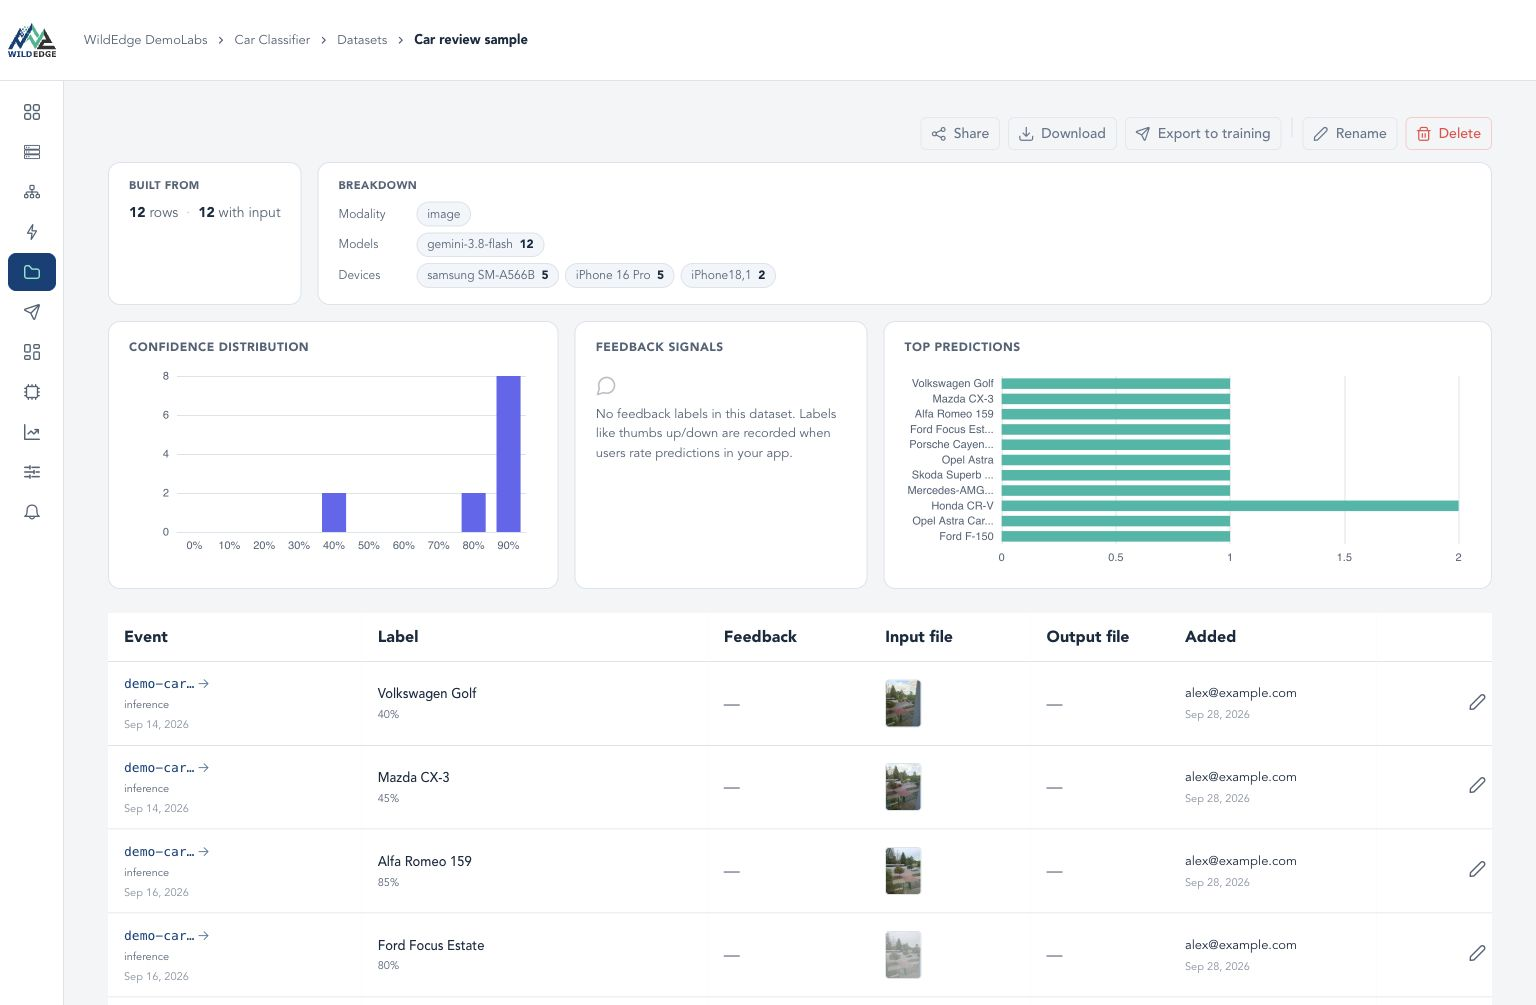
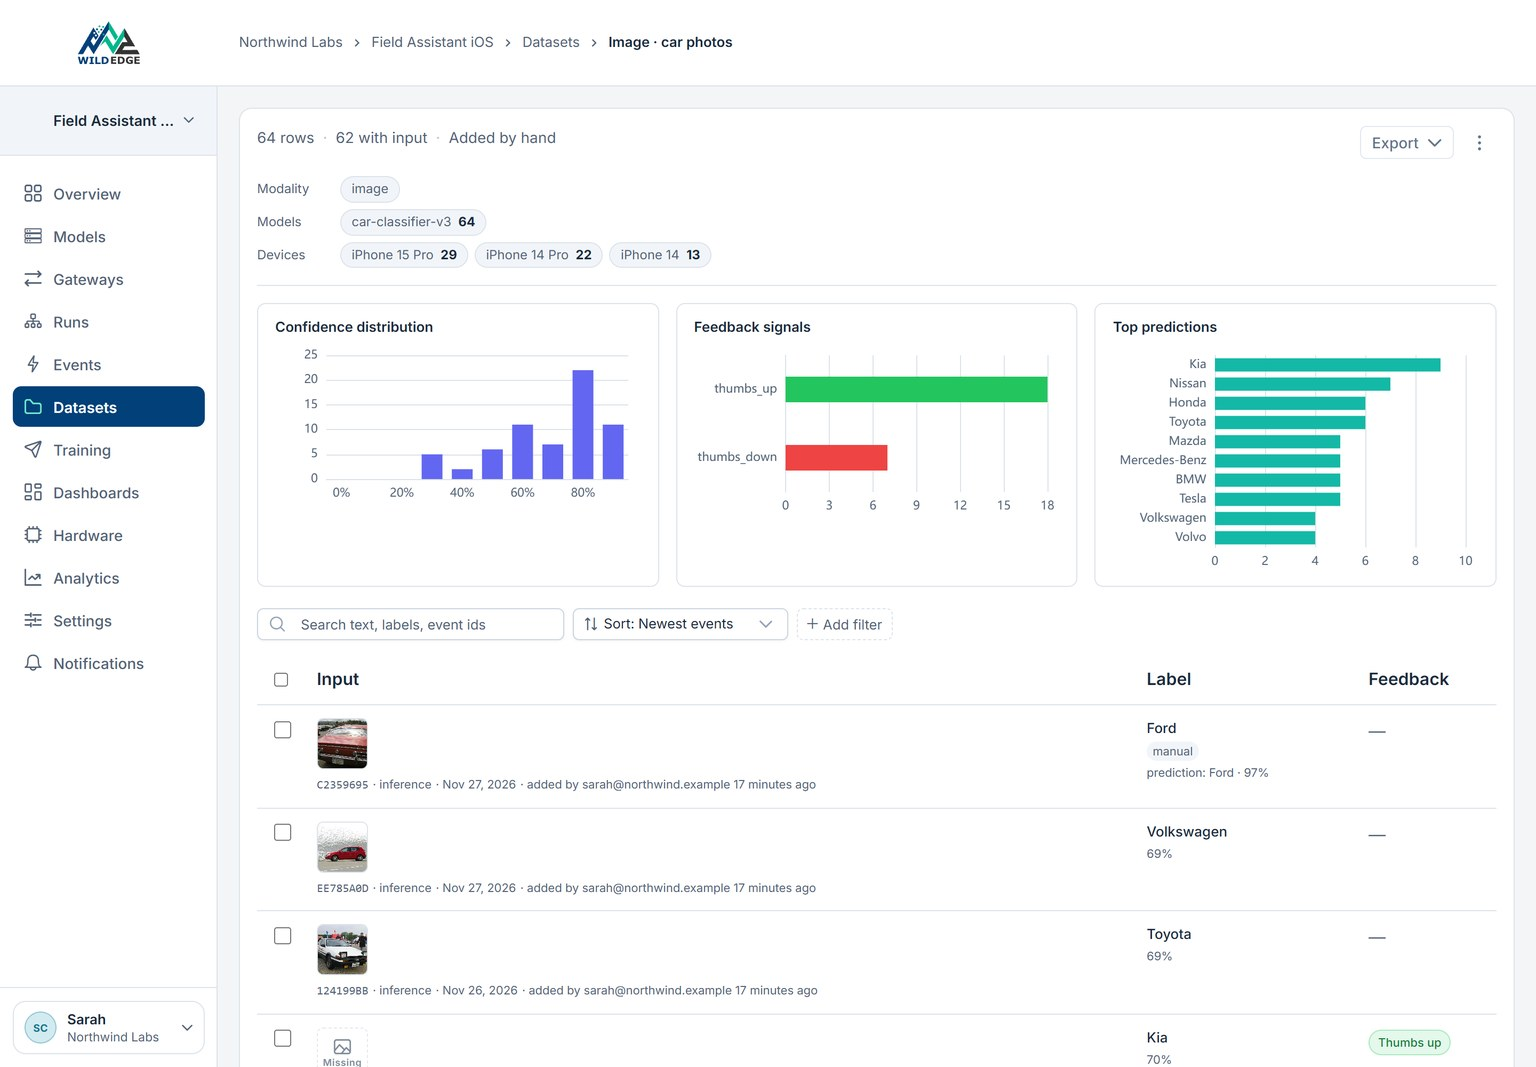
Describe datasets for every model output, with new screenshots (#24)

diff --git a/datasets-and-training/datasets.md b/datasets-and-training/datasets.md
@@ -1,41 +1,107 @@
 ---
 title: Datasets
-description: Review inference examples, correct dataset labels, and prepare data for training.
+description: Collect production inferences with their inputs and outputs, review and label them one at a time or in bulk, and export them for evaluation or training. Works for images, audio, video, documents, text, chat and sensor data.
 ---
 
 # Datasets <a class="we-demo-button" href="https://wildedge.dev/demo/wildedge-demolabs/car-classifier/datasets/car-review-sample?hours=168" aria-label="Open Car review sample in the demo">See Demo</a>
 
-A dataset collects inference events you want to review or use for training. Start with a single event or a filtered batch from [Capture](/datasets-and-training/capture#add-captured-events-to-a-dataset).
+Monitoring tells you that a model is wrong more often than it should be. A dataset shows you the cases where it was wrong.
+
+A dataset is a list of real inferences from your app. Each item holds the input your app gave the model (a photo, a recording, a document, a prompt), what the model answered, and any feedback the user left. You choose which inferences go in, for example every low-confidence prediction from last week, or every answer a user rated thumbs down.
+
+Use a dataset to:
+
+- **See why a model fails.** Look at the inputs behind low confidence or bad feedback, instead of guessing from a chart.
+- **Build an evaluation set.** Correct the wrong answers, then test the next model version on the inputs your users actually send.
+- **Collect training data.** Export the labelled items to retrain or fine-tune the model.
+
+Items keep their own copy of the event, so a dataset stays complete after the original events expire.
 
 <figure class="workflow-shot">
-  <a href="/images/workflows/dataset-detail.jpg"><img src="/images/workflows/dataset-detail.jpg" alt="The full Car review sample view shows dataset actions, coverage, charts, and the first four rows." width="1536" height="1005"><span class="workflow-shot-open">Open full-size screenshot</span></a>
-  <figcaption>Start with coverage and confidence, then review the original events and input images in the table below.</figcaption>
+  <a href="/images/workflows/dataset-detail.jpg"><img src="/images/workflows/dataset-detail.jpg" alt="A car photo dataset shows its row counts, modality, model and device breakdown, three analysis charts and the item table with image thumbnails." width="1536" height="1067"><span class="workflow-shot-open">Open full-size screenshot</span></a>
 </figure>
 
-## Inspect dataset coverage
+## What a dataset can hold
 
-- **Built from and Breakdown** show the row count, attachment coverage, and the input modalities, models, and devices represented.
-- **Confidence distribution and Top predictions** show where the model was uncertain and which classes it predicted most often. In your project, select a bar to filter the rows.
-- **Feedback signals** shows ratings your app recorded, such as thumbs up or thumbs down.
+A dataset accepts any inference event. Each item shows the files and text your app sent with it:
 
-## Review individual rows
+| Content | How it appears |
+| --- | --- |
+| **Images** | Thumbnail in the table, full view in the item panel. Detection boxes can be shown over the image. |
+| **Audio** | Player in the table and the item panel. |
+| **Video** | Player in the table and the item panel. |
+| **PDF** | Inline document preview. |
+| **Text and JSON files** | Inline preview, for prompts, completions, sensor windows or structured outputs. |
+| **Chat** | The last user message in the table and the full conversation in the item panel. |
+| **Input and output summaries** | Short text your app sent instead of a file. These work without attachment capture. |
 
-Open the event link to see the original inference, or click the input thumbnail to inspect the captured image. The row also shows the predicted label, confidence, and any recorded feedback or output file.
+An item can have several input and output files, for example a photo with a question, or a voice command with its transcript. Step through them with the arrows on the preview.
 
 <figure class="workflow-shot">
-  <a href="/images/workflows/dataset-rows.jpg"><img src="/images/workflows/dataset-rows.jpg" alt="Dataset rows with links to inference events, confidence scores, image thumbnails, and edit controls." width="1145" height="420" loading="lazy"><span class="workflow-shot-open">Open full-size screenshot</span></a>
-  <figcaption>Compare each prediction with its captured input before changing a label.</figcaption>
+  <a href="/images/workflows/dataset-modalities.jpg"><img src="/images/workflows/dataset-modalities.jpg" alt="Four dataset items: a car photo with a spoken question and its answer, an invoice PDF with the extracted fields, an accelerometer window and a support chat." width="1536" height="1841" loading="lazy"><span class="workflow-shot-open">Open full-size screenshot</span></a>
 </figure>
 
-### Correct a label
+Files need [attachment capture](/datasets-and-training/capture#capture-content-in-your-app). Without it, items show only the event and its summaries.
 
-In your project, click the pencil icon on the row, enter the corrected **Forced Label**, and select **Save**. The override becomes the effective label for this row and is used by training export. The original prediction remains visible in the editor. Use **Clear forced label** to remove an override.
+## Create a dataset
+
+There are three ways to fill a dataset:
+
+- **From Events.** Filter the Event Explorer and select **Add all to dataset**, or add a single event from its details. See [Capture](/datasets-and-training/capture#add-captured-events-to-a-dataset).
+- **From a dataset page.** Select **New dataset** in **Datasets** and add events to it later.
+- **Through MCP.** An agent connected over [MCP](/mcp) can list datasets and read their items.
+
+Large batches are added in the background. The dataset shows **Adding** while that runs, and you can keep working in it.
 
 <figure class="workflow-shot">
-  <a href="/images/workflows/dataset-edit-label.jpg"><img src="/images/workflows/dataset-edit-label.jpg" alt="The Edit event label dialog shows the Volkswagen Golf prediction at 40% confidence and a Forced Label field." width="536" height="462" loading="lazy" style="max-width: 536px"><span class="workflow-shot-open">Open full-size screenshot</span></a>
-  <figcaption>The label editor shows the original prediction alongside the effective dataset label.</figcaption>
+  <a href="/images/workflows/datasets-list.jpg"><img src="/images/workflows/datasets-list.jpg" alt="The dataset list shows cards with item counts, how many items were reviewed, what each dataset was built from and when it changed." width="1536" height="960" loading="lazy"><span class="workflow-shot-open">Open full-size screenshot</span></a>
+</figure>
+
+## Find the items to review
+
+- **Analysis charts.** **Confidence distribution**, **Top predictions** and **Feedback signals** show where the model was unsure, what it predicted and how users rated the results. Select a bar to filter the items.
+- **Filters.** Narrow by prediction, feedback, confidence, model, device, input modality, event type or who added the item.
+- **Search.** Find items by text, label or event ID.
+- **Sort.** Order by newest or oldest event, recently added, or least or most confident. **Least confident** is a good place to start reviewing.
+
+Filters, search and sort are kept in the URL, so you can share a filtered view.
+
+## Review items one at a time
+
+Click a row to open it in the item panel. The panel shows the input and output side by side, the label, user feedback, and the event's details. Use **Open in Event Explorer** to see the original event and the run it belongs to.
+
+<figure class="workflow-shot">
+  <a href="/images/workflows/dataset-item-panel.jpg"><img src="/images/workflows/dataset-item-panel.jpg" alt="The item panel shows a Mercedes-Benz photo the model predicted as Nissan at 35%, with numbered label choices above it." width="1536" height="1067" loading="lazy"><span class="workflow-shot-open">Open full-size screenshot</span></a>
+  <figcaption>Sorted by least confident, the first item is a Mercedes-Benz the model read as a Nissan. Press <kbd>5</kbd> to label it and move to the next item.</figcaption>
+</figure>
+
+The panel is built for going through items quickly from the keyboard:
+
+| Key | Action |
+| --- | --- |
+| <kbd>1</kbd>-<kbd>9</kbd> | Set one of the suggested labels and go to the next item |
+| <kbd>L</kbd> | Type a new label |
+| <kbd>C</kbd> | Clear the label you set |
+| <kbd>X</kbd> or <kbd>Delete</kbd> | Remove the item from the dataset and go to the next one |
+| <kbd>J</kbd> / <kbd>K</kbd> or the arrow keys | Next or previous item |
+| <kbd>Esc</kbd> | Close the panel |
+
+The suggested labels are the most common predictions in the dataset. A label you set replaces the prediction for this item in the dataset and in exports. The original event is not changed, and the panel still shows the prediction next to your label.
+
+Use **Copy link to this item** to send a teammate straight to an item.
+
+## Change many items at once
+
+Select rows with their checkboxes, or use **Select all matching** to select every item that matches the current filters. Then choose **Set label**, **Clear label** or **Remove**. Each change shows a notice with **Undo**.
+
+<figure class="workflow-shot">
+  <a href="/images/workflows/dataset-bulk-actions.jpg"><img src="/images/workflows/dataset-bulk-actions.jpg" alt="25 selected items with Select all 64 matching, Set label, Clear label and Remove above the table." width="1536" height="648" loading="lazy"><span class="workflow-shot-open">Open full-size screenshot</span></a>
 </figure>
 
 ## Download or export
 
-Use **Download** to save a ZIP of the dataset, or select **Export to training** on a ready dataset with input files to send examples to Edge Impulse. [Track training exports](/datasets-and-training/training).
+| Option | What you get |
+| --- | --- |
+| **Download ZIP** | A metadata file per item plus its input files, prepared in your browser. The dialog shows progress, the file types included and any files that could not be downloaded. Up to 128 MB per ZIP. |
+| **API access** | A paginated manifest endpoint that returns every item with presigned file URLs, for scripts and training pipelines. |
+| **Export to training** | Sends image inputs and their labels to Edge Impulse. [Track training exports](/datasets-and-training/training). |

diff --git a/concepts.md b/concepts.md
@@ -87,16 +87,16 @@ Build dashboards in **Dashboards**, or ask your agent: `create_chart` saves a SQ
 
 ## Datasets
 
-A **dataset** is a curated set of events with their attachments, for evaluation or fine-tuning. You can fill one in two ways:
+A **dataset** is a curated set of events with their inputs and outputs, for evaluation or fine-tuning. It works for any model output: image, audio, video, PDF, text, chat and sensor data. You can fill one in two ways:
 
-- **Build from filters.** Select events by time range, model, version, device, prediction label, confidence range, or error code, preview the result, then build.
-- **Add events by hand** from the **Events** list, one or many at a time, or from an event's page.
+- **Add filtered events** from the **Events** list with **Add all to dataset**.
+- **Add events by hand**, one at a time from an event's details.
 
-Each row carries the event's predicted label. You can override the label for a row inside a dataset without changing the original event. A dataset shows how many rows have an input and an output attachment.
+Each item carries the event's predicted label. You can set a different label inside the dataset, one item at a time from the keyboard or in bulk, without changing the original event. Each item keeps a saved copy of its event, so the dataset outlives the project's retention.
 
-Datasets need attachment capture. Without it, there is nothing to train on. See [Build evaluation datasets](/what-we-collect#model-behavior).
+Files need attachment capture. Input and output summaries work without it. See [Build evaluation datasets](/what-we-collect#model-behavior).
 
-**[Review examples in a dataset →](/datasets-and-training/datasets#review-individual-rows)**
+**[Review examples in a dataset →](/datasets-and-training/datasets#review-items-one-at-a-time)**
 
 ## Training export
 

diff --git a/changelog.md b/changelog.md
@@ -7,6 +7,16 @@ description: What has changed recently
 
 ## November 2026
 
+**Datasets**
+
+- [Datasets](/datasets-and-training/datasets) now work for every kind of model output. Items show images, audio, video, PDFs, text and JSON files, chat conversations and input and output summaries.
+- Review items one at a time in a side panel, with the input and output side by side. Label with a number key, remove with <kbd>X</kbd>, and move with <kbd>J</kbd> and <kbd>K</kbd>.
+- Select items, or every item matching your filters, and set a label, clear it or remove them together. Every change can be undone.
+- Filter items by prediction, feedback, confidence, model, device, input modality, event type or who added them. Search by text, label or event ID, and sort by confidence to review the least certain items first.
+- Each item keeps a saved copy of its event, so a dataset stays complete after the source events expire.
+- Dataset cards show what each dataset was built from and how many items a person has reviewed.
+- The ZIP download shows progress and the file types it includes, and reports any files it could not download.
+
 **Platform**
 
 - Added beta [Bifrost](/gateways/bifrost) gateway support over OpenTelemetry, with token use, latency, failures, retries, fallbacks, and estimated cost.
